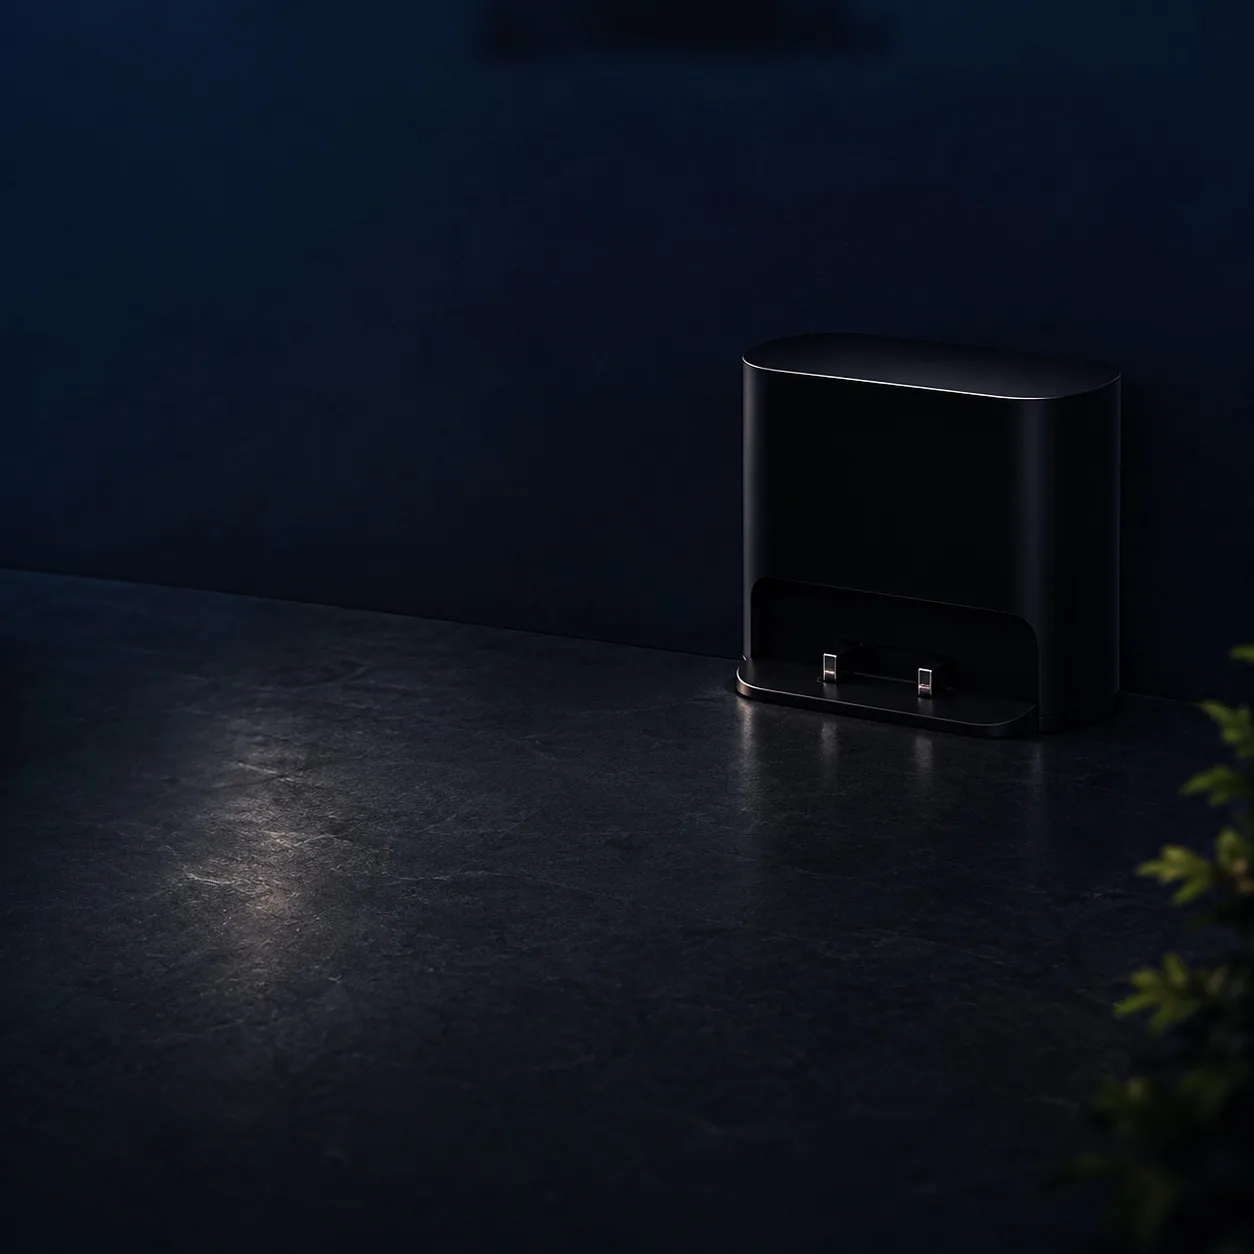
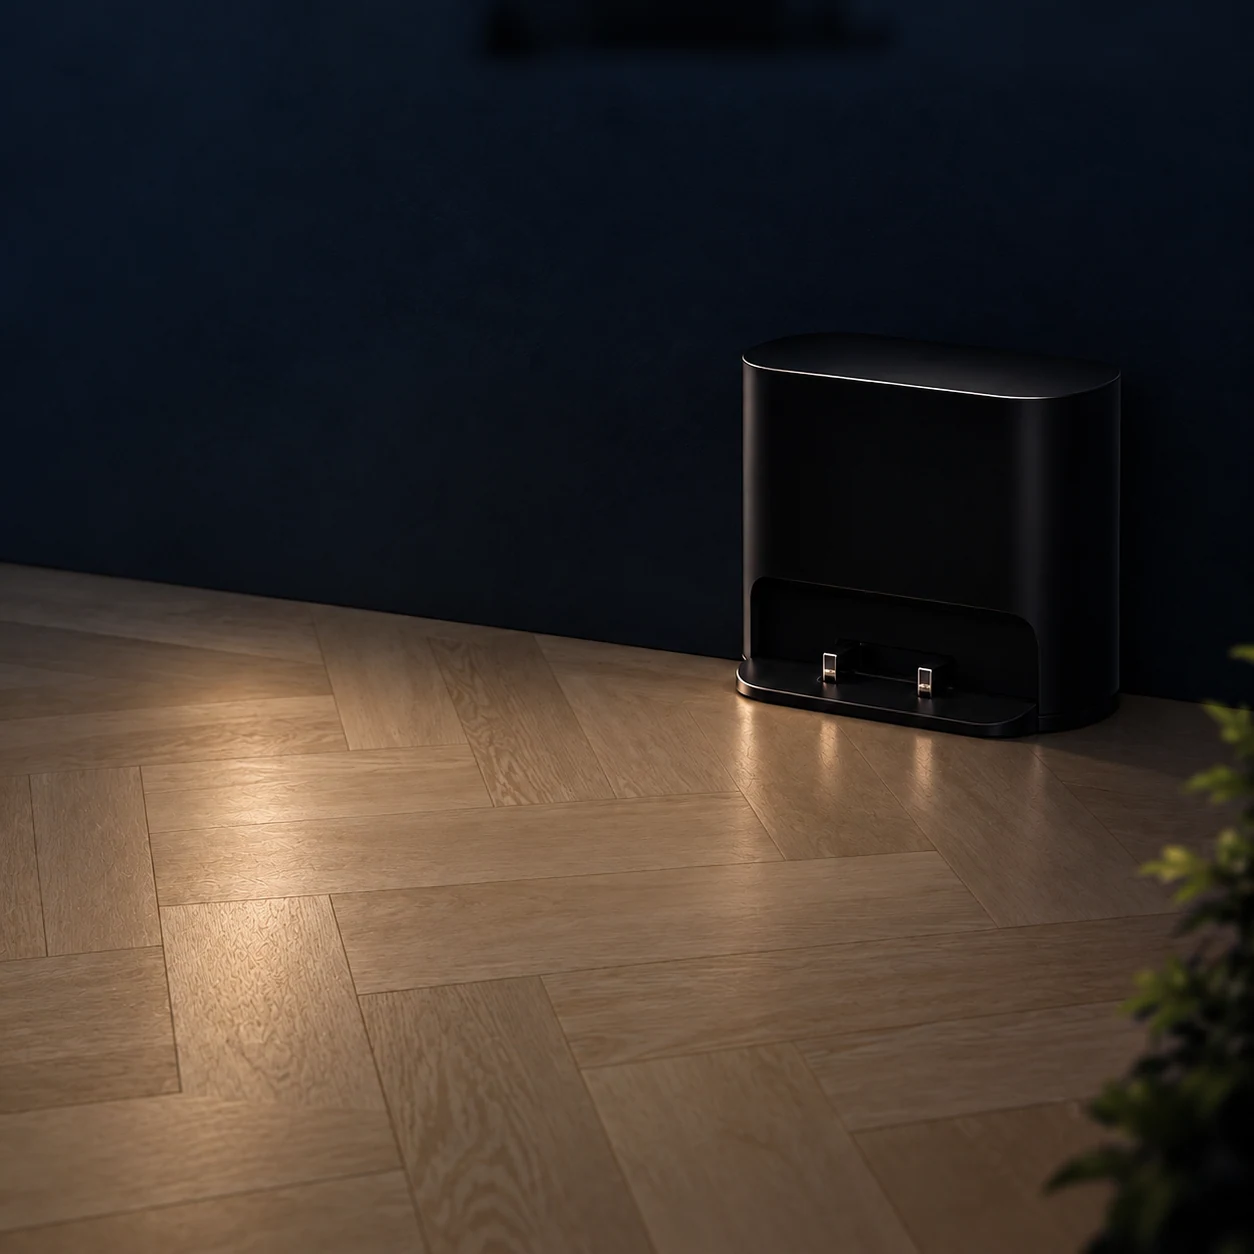
Refresh vacuum dock art and add Team Tracker day stadium
Swap vacuum card 2 docked/empty lifestyle WebPs for the new mockup
shots, and pick a sunny day stadium when the theme is light.

diff --git a/src/components/widgets/teamtracker-card-widget.tsx b/src/components/widgets/teamtracker-card-widget.tsx
@@ -4,6 +4,7 @@ import { CalendarDays, MoreVertical } from "lucide-react";
 import { cn } from "@/lib/utils";
 import { withBasePath } from "@/lib/base-path";
 import { useEntityStateStore } from "@/stores/entity-state-store";
+import { useThemeStore } from "@/stores/theme-store";
 import { useTranslation } from "@/hooks/use-translation";
 import {
   estimateTeamtrackerProgress,
@@ -16,8 +17,8 @@ import {
   isTeamtrackerShowProgress,
   isTeamtrackerShowTeamNames,
   readTeamtrackerMatch,
+  teamtrackerStadiumImageSrc,
   teamtrackerStatusLabel,
-  TEAMTRACKER_STADIUM_IMAGE,
   type TeamtrackerMatch,
 } from "@/lib/teamtracker-card";
 import type { TeamtrackerCardProps } from "./widget-types";
@@ -226,6 +227,7 @@ export function TeamtrackerCardWidget({
   onMoreClick,
 }: TeamtrackerCardProps & { className?: string; onMoreClick?: () => void }) {
   const { t, language } = useTranslation();
+  const isDark = useThemeStore((s) => s.resolved) === "dark";
   const entity = useEntityStateStore((s) => s.getState(entity_id));
   const match = readTeamtrackerMatch(entity);
   const hasContent = footballMatchHasContent(match);
@@ -240,7 +242,7 @@ export function TeamtrackerCardWidget({
   const showNames = isTeamtrackerShowTeamNames(show_team_names);
   const showForm = isTeamtrackerShowForm(show_form);
   const showProgress = isTeamtrackerShowProgress(show_progress);
-  const stadiumSrc = withBasePath(TEAMTRACKER_STADIUM_IMAGE);
+  const stadiumSrc = withBasePath(teamtrackerStadiumImageSrc(isDark));
   const footerRight = isUpcoming
     ? kickoffTime
     : status === "IN"
@@ -252,13 +254,19 @@ export function TeamtrackerCardWidget({
       <div className="relative flex min-h-0 flex-1 flex-col overflow-hidden rounded-[1.35rem] bg-[#0B1528] text-white shadow-[0_18px_50px_rgba(8,15,30,0.35)] ring-1 ring-white/10">
         {/* eslint-disable-next-line @next/next/no-img-element -- local static lifestyle art */}
         <img
+          key={stadiumSrc}
           src={stadiumSrc}
           alt=""
           className="absolute inset-0 h-full w-full object-cover object-center"
           draggable={false}
         />
         <div
-          className="absolute inset-0 bg-gradient-to-b from-[#07111F]/78 via-[#0A1630]/55 to-[#07111F]/88"
+          className={cn(
+            "absolute inset-0 bg-gradient-to-b",
+            isDark
+              ? "from-[#07111F]/78 via-[#0A1630]/55 to-[#07111F]/88"
+              : "from-[#0A1628]/62 via-[#12243A]/48 to-[#0A1628]/78"
+          )}
           aria-hidden
         />
 

diff --git a/src/app/dev/teamtracker-card-preview/page.tsx b/src/app/dev/teamtracker-card-preview/page.tsx
@@ -4,6 +4,7 @@ import { useEffect, useMemo, useState } from "react";
 import { TeamtrackerCardWidget } from "@/components/widgets/teamtracker-card-widget";
 import { useEntityStateStore } from "@/stores/entity-state-store";
 import { useLanguageStore } from "@/stores/language-store";
+import { useThemeStore } from "@/stores/theme-store";
 import { cn } from "@/lib/utils";
 
 const ENTITY_ID = "sensor.team_psv_preview";
@@ -12,6 +13,8 @@ const ENTITY_ID = "sensor.team_psv_preview";
 export default function TeamtrackerCardPreviewPage() {
   const updateEntityState = useEntityStateStore((s) => s.updateEntityState);
   const setLanguage = useLanguageStore((s) => s.setLanguage);
+  const setResolved = useThemeStore((s) => s.setResolved);
+  const resolved = useThemeStore((s) => s.resolved);
   const [mode, setMode] = useState<"pre" | "in" | "post">("pre");
 
   const entity = useMemo(() => {
@@ -103,7 +106,7 @@ export default function TeamtrackerCardPreviewPage() {
       <div className="mx-auto max-w-3xl">
         <h1 className="text-lg font-semibold">Team Tracker card preview</h1>
         <p className="mt-1 text-sm text-white/60">
-          Stadium lifestyle background with logos, league pill, and kickoff footer. No Home Assistant
+          Day/night stadium backgrounds with logos, league pill, and kickoff footer. No Home Assistant
           required.
         </p>
 
@@ -121,6 +124,13 @@ export default function TeamtrackerCardPreviewPage() {
               {value}
             </button>
           ))}
+          <button
+            type="button"
+            onClick={() => setResolved(resolved === "dark" ? "light" : "dark")}
+            className="rounded-full bg-white/10 px-3 py-1 text-xs font-medium text-white/80"
+          >
+            theme: {resolved} ({resolved === "dark" ? "night" : "day"} art)
+          </button>
         </div>
 
         <div className="mt-8 flex justify-center">

diff --git a/src/lib/teamtracker-card.test.ts b/src/lib/teamtracker-card.test.ts
@@ -15,6 +15,9 @@ import {
   formatTeamtrackerKickoffTime,
   formatTeamtrackerLeagueLabel,
   formatTeamtrackerPeriodLabel,
+  TEAMTRACKER_STADIUM_IMAGE_DAY,
+  TEAMTRACKER_STADIUM_IMAGE_NIGHT,
+  teamtrackerStadiumImageSrc,
   isTeamtrackerEntityId,
   isTeamtrackerShowForm,
   isTeamtrackerShowProgress,
@@ -155,6 +158,11 @@ describe("teamtracker-card helpers", () => {
     expect(formatTeamtrackerLeagueLabel("UEFA.EUROPA_LEAGUE")).toBe("UEFA Europa League");
     expect(formatTeamtrackerLeagueLabel("Eredivisie")).toBe("Eredivisie");
     expect(formatTeamtrackerLeagueLabel(null)).toBe(null);
+  });
+
+  it("picks day vs night stadium art from theme", () => {
+    expect(teamtrackerStadiumImageSrc(false)).toBe(TEAMTRACKER_STADIUM_IMAGE_DAY);
+    expect(teamtrackerStadiumImageSrc(true)).toBe(TEAMTRACKER_STADIUM_IMAGE_NIGHT);
   });
 
   it("formats form lines and falls back to season record", () => {

diff --git a/src/lib/teamtracker-card.ts b/src/lib/teamtracker-card.ts
@@ -6,8 +6,16 @@ import {
   type FootballMatchStatus,
 } from "@/lib/screensaver-football";
 
-/** Night stadium lifestyle background for the match card. */
-export const TEAMTRACKER_STADIUM_IMAGE = "/teamtracker-stadium.webp";
+/** Day / night stadium lifestyle backgrounds for the match card. */
+export const TEAMTRACKER_STADIUM_IMAGE_DAY = "/teamtracker-stadium-day.webp";
+export const TEAMTRACKER_STADIUM_IMAGE_NIGHT = "/teamtracker-stadium-night.webp";
+
+/** @deprecated Use TEAMTRACKER_STADIUM_IMAGE_NIGHT */
+export const TEAMTRACKER_STADIUM_IMAGE = TEAMTRACKER_STADIUM_IMAGE_NIGHT;
+
+export function teamtrackerStadiumImageSrc(isDark: boolean): string {
+  return isDark ? TEAMTRACKER_STADIUM_IMAGE_NIGHT : TEAMTRACKER_STADIUM_IMAGE_DAY;
+}
 
 export const TEAMTRACKER_CARD_DEFAULT_WIDTH = 380;
 export const TEAMTRACKER_CARD_DEFAULT_HEIGHT = 280;

diff --git a/src/app/dev/vacuum-card-preview/page.tsx b/src/app/dev/vacuum-card-preview/page.tsx
@@ -53,7 +53,7 @@ export default function VacuumCardPreviewPage() {
       <div className="mx-auto max-w-3xl">
         <h1 className="text-lg font-semibold">Vacuum card preview</h1>
         <p className="mt-1 text-sm text-white/60">
-          Mockup layout + docked / empty-dock art. No Home Assistant required.
+          Mockup layout + new docked / empty-dock lifestyle art. No Home Assistant required.
         </p>
 
         <div className="mt-4 flex flex-wrap gap-2">

diff --git a/README.md b/README.md
@@ -220,14 +220,14 @@ A plain `docker pull` is not enough — the container must be recreated to run t
 ### Unraid
 
 1. Open the container → **Force update** (or apply update if shown).
-2. Confirm **Settings → System** shows the new version (e.g. `0.4.83`).
+2. Confirm **Settings → System** shows the new version (e.g. `0.4.84`).
 
 ### Home Assistant addon
 
 Supervisor only offers an update when the addon **version** in `config.yaml` increases. After a release:
 
 1. **Settings → Add-ons → Add-on store** → ⋮ → **Check for updates** (or refresh your custom repository).
-2. Update **Dashboard Builder** when `0.4.83` (or newer) appears.
+2. Update **Dashboard Builder** when `0.4.84` (or newer) appears.
 3. Confirm the version under the addon info / in-app **Settings → System**.
 
 The current version is shown in **Settings → System**.

diff --git a/homeassistant-addon/CHANGELOG.md b/homeassistant-addon/CHANGELOG.md
@@ -1,5 +1,10 @@
 # Changelog
 
+## 0.4.84
+
+- Vacuum card 2: new docked / empty-dock lifestyle backgrounds
+- Team Tracker card: separate day and night stadium backgrounds (theme-aware)
+
 ## 0.4.83
 
 - Team Tracker card: stadium lifestyle background, logos + VS, league pill, calendar date/time footer (no top “next match” header)
